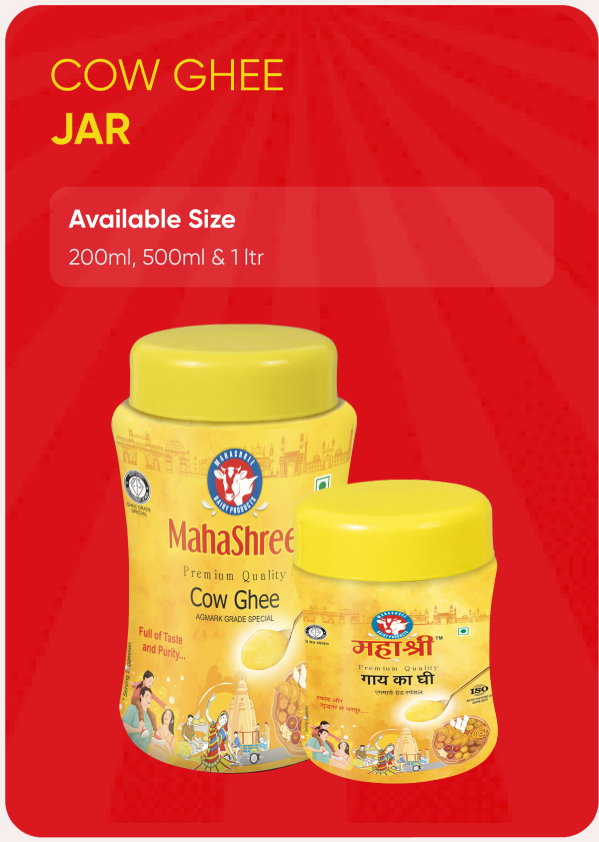
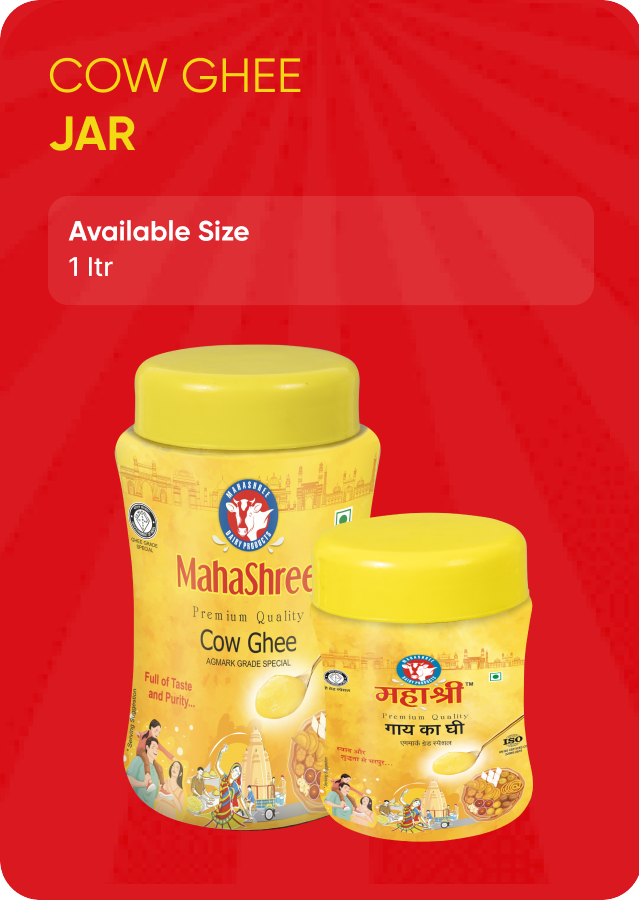
added

diff --git a/my-project/src/components/ServiceCard.jsx b/my-project/src/components/ServiceCard.jsx
@@ -1,9 +1,19 @@
 import React from 'react'
+import { proback, proseek } from '../assets/images'
 
 const ServiceCard = ({head}) => {
   return (
-   <div className='hidden max-sm:block h-full w-full ' > 
+   <div className='hidden max-sm:block h-full w-full   ' > 
    <img src={head} alt=""  className='h-full w-full'/>
+
+{/*    
+    <img src={proseek} className='absolute z-[99] top-1 opacity-[4%] w-full h-full rounded-full' alt="" />
+        <div className='border-2 border-black h-[40%]'>
+
+        </div>
+        <div className='border-2 border-black h-[60%]'>
+          <img src={big} className='w-full h-[90%] object-contain object-center' alt="" />
+        </div> */}
    </div>
   )
 }

diff --git a/my-project/src/sections/Products.jsx b/my-project/src/sections/Products.jsx
@@ -10,7 +10,7 @@ const all = [
         head: united,
         big: dairy01,
         name: "TETRA BOX",
-        size: "200ml,500ml & 1ltr"
+        size: "500 ml"
     },
     {
         head: pro2,
@@ -23,19 +23,19 @@ const all = [
         head: pro3,
         big: dairy03,
         name: "TETRA PACK",
-        size: "200ml,500ml & 1ltr"
+        size: "30 ml"
     },
     {
         head: pro4,
         big: bucket,
         name: "JAR",
-        size: "5Ltr. Jar"
+        size: "5 Ltr. Jar"
     },
     {
         head: pro5,
         big: jar1ltr,
         name: "JAR",
-        size: "200ml,500ml & 1ltr"
+        size: "1 ltr"
     },
 ];
 

diff --git a/my-project/src/components/PopularProductCard.jsx b/my-project/src/components/PopularProductCard.jsx
@@ -5,7 +5,7 @@ import { useTranslation } from 'react-i18next';
 const PopularProductCard = ({big,name,size}) => {
 
   const {t} = useTranslation();
-
+ 
 
   
   return (
